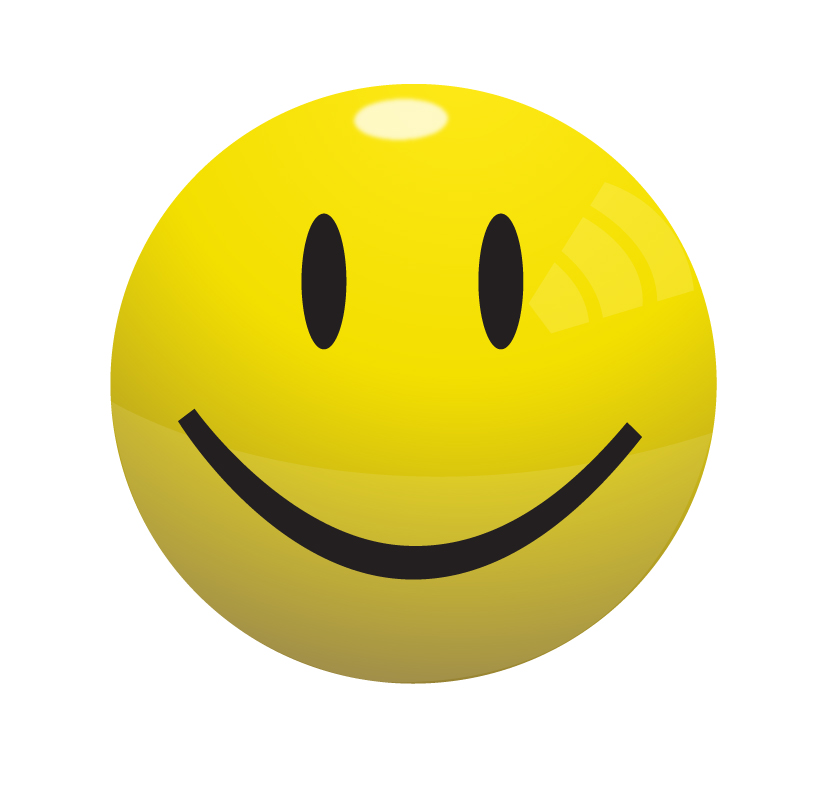
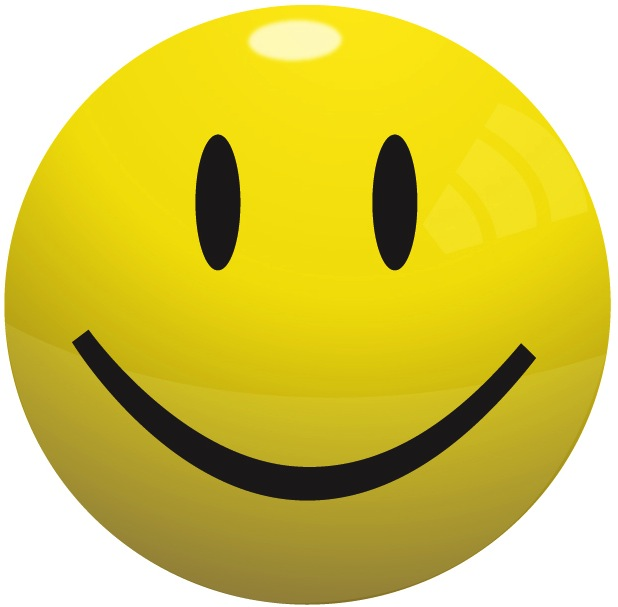
more minor shit

diff --git a/public/css/application.css b/public/css/application.css
@@ -35,6 +35,34 @@ ul {
   right: 10px;
 }
 
-.smile {
-  width: 100%;
+.upper {
+  display: inline;
+}
+
+.user_info a {
+  line-height: 100%;
+}
+
+#welcome {
+  text-align: center;
+  margin-bottom: 0;
+}
+
+#scatt {
+  margin-top: 0;
+  text-align: center;
+}
+
+#scatt span {
+  text-decoration: underline;
+}
+
+#smile {
+  display: block;
+  margin: 0 auto;
+  width: 75%;
+}
+
+.create {
+  text-align: center;
 }

diff --git a/app/controllers/index.rb b/app/controllers/index.rb
@@ -3,7 +3,9 @@ get '/' do
 end
 
 get '/create' do
-  @user = current_user
+  if current_user
+    @user = current_user
+  end
   erb :create
 end
 
@@ -32,7 +34,8 @@ get '/survey/:id/results' do
 end
 
 get '/profile/:id' do
-  
+  @user = current_user
+  erb :profile
 end
 
 
@@ -62,7 +65,6 @@ post '/register' do
   if @user.save
     session[:user_id] = @user.id
   end
-  
   redirect "/"
 end
 
@@ -70,7 +72,10 @@ post '/login' do
   email = params[:email]
   password = params[:password]
   @user = User.authentication(email, password)
-  session[:user_id] = @user.id
-  
-  redirect "/profile/#{@user.id}"
+  if @user
+    session[:user_id] = @user.id
+  else
+    @error = "email or password invalid"
+  end
+  redirect ""
 end

diff --git a/app/models/user.rb b/app/models/user.rb
@@ -3,6 +3,9 @@ class User < ActiveRecord::Base
   has_many :participations
   has_many :taken_surveys, through: :participations, source: :survey
 
+  validates :email, presence: true, uniqueness: true
+  validates :password, presence: true
+
 
   include BCrypt
 
